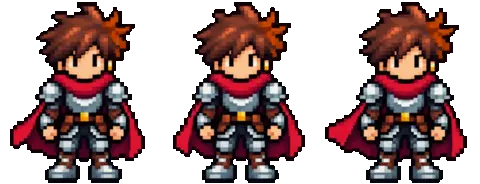
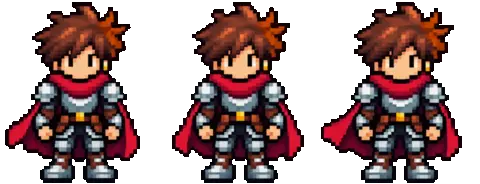
Diario: pose di riposo del cavaliere allineate (non si sposta più) e più veloci
Claude-Session: https://claude.ai/code/session_01Ly8M64WoiNxbZKkFq6qyb5

diff --git a/css/pixel.css b/css/pixel.css
@@ -2996,12 +2996,12 @@ html[data-theme="day"] .theme-toggle .icon-moon {
 }
 
 
-/* Fermo al falò scelto: tre pose di fronte, una ogni 1,5 secondi */
+/* Fermo al falò scelto: tre pose di fronte, una ogni 0,7 secondi */
 .knight-walker.is-resting:not(.is-walking) {
     aspect-ratio: 160 / 184;
     transform: translate(-50%, -100%);
     background: url("../immagini/cavaliere-riposo.webp") 0 0 / 300% 100% no-repeat;
-    animation: knight-rest 4.5s steps(1) infinite;
+    animation: knight-rest 2.1s steps(1) infinite;
 }
 
 @keyframes knight-rest {
